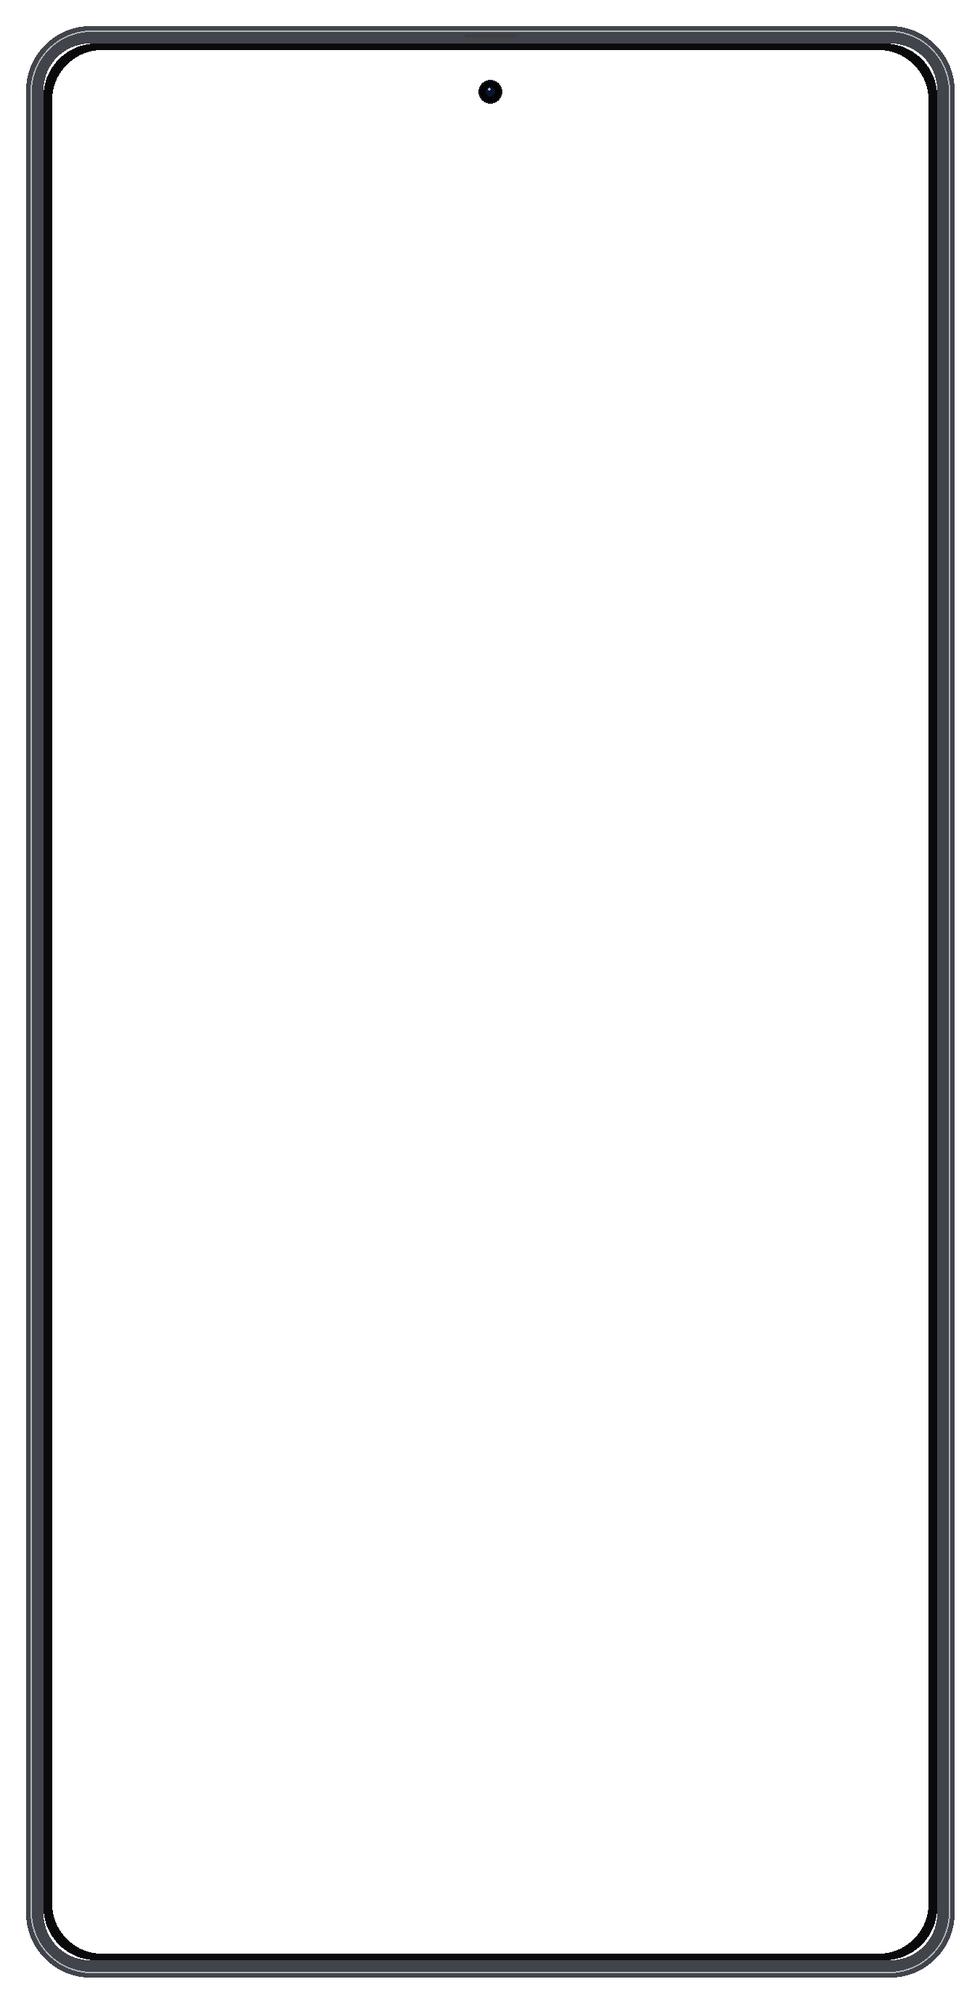
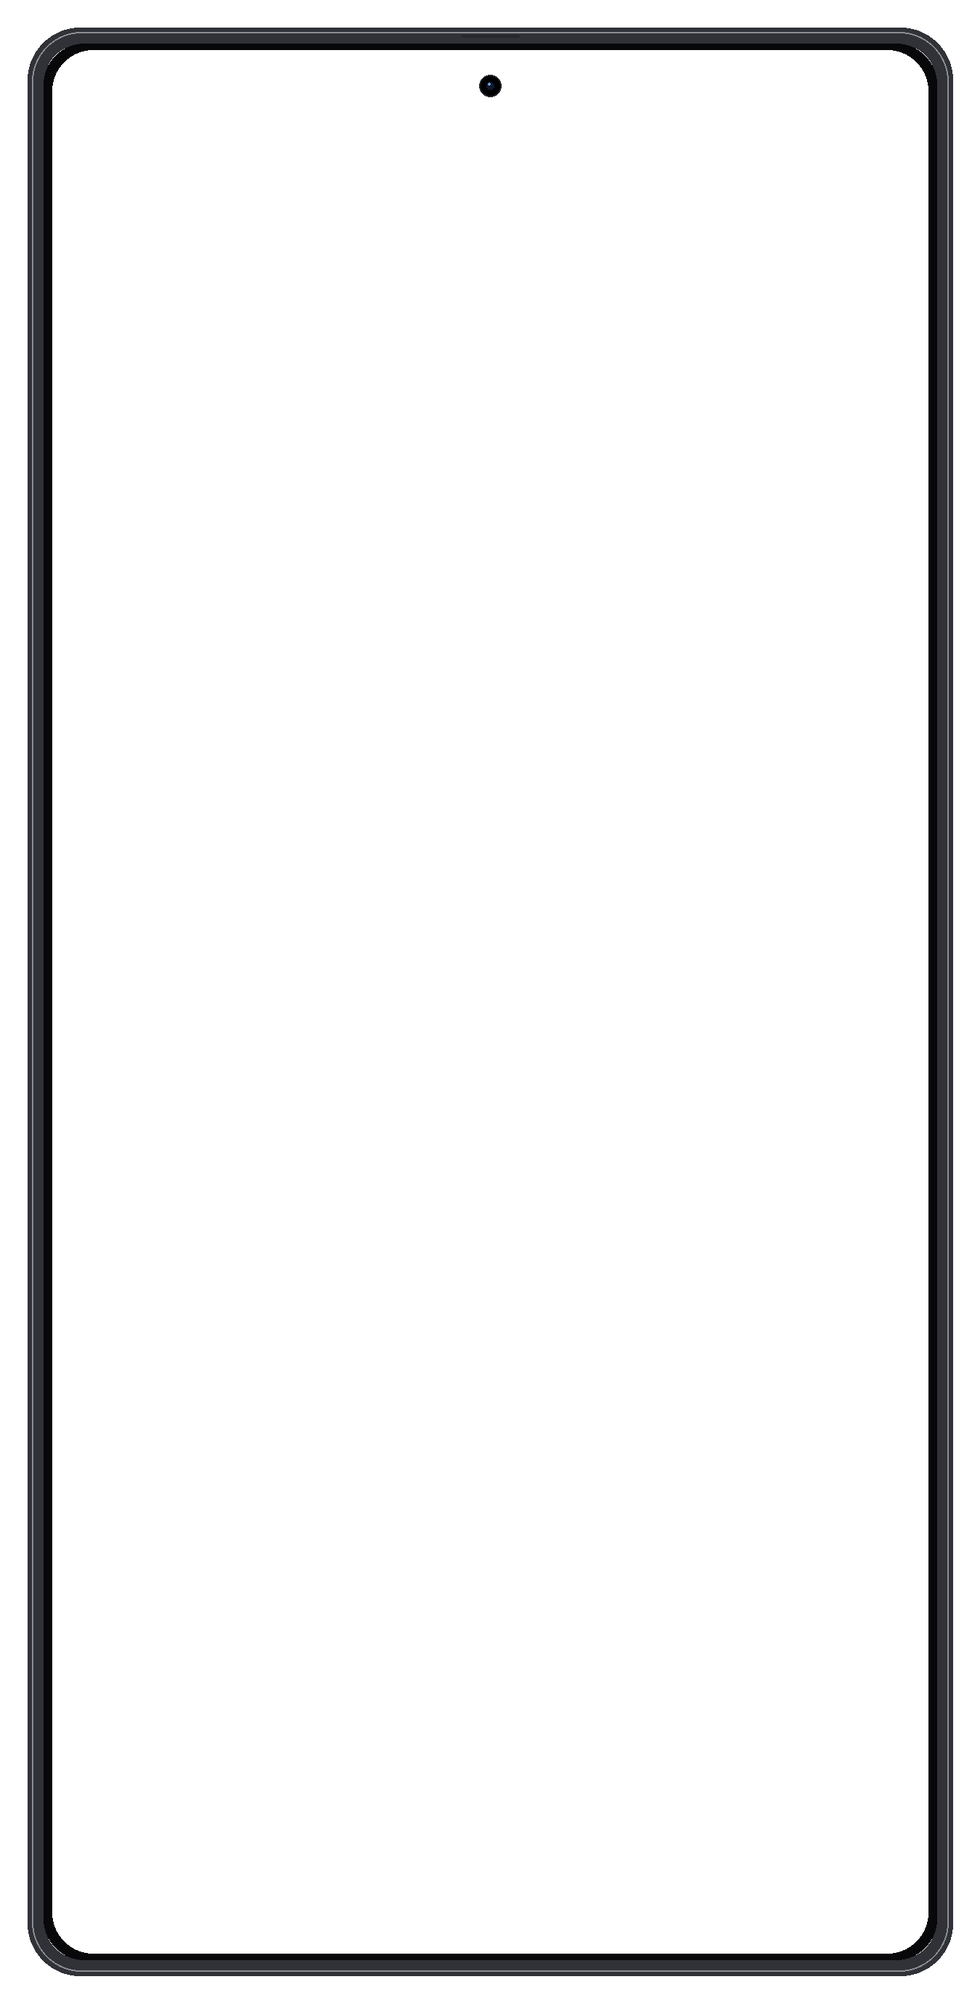
feat(routing): completely decouple platform screens, bezels and storage progress

diff --git a/src/main.ts b/src/main.ts
@@ -309,29 +309,37 @@ function animateRailPosition(from: number, to: number, offset = 0) {
   railMotion.onfinish = () => { if (railGeometryPending) requestAnimationFrame(measureRailGeometry); };
 }
 
-const phaseProgressKey = 'apple-bezel-tutorial-phase-progress-v1';
+function getProgressKey(platform: PlatformId = activePlatform) {
+  return `tutorial-progress-${platform}-v2`;
+}
 
 function phaseSteps() {
   return phases[currentPhase].steps;
 }
 
 function saveProgress() {
-  localStorage.setItem(phaseProgressKey, JSON.stringify({ phase: currentPhase, steps: phaseStepPositions, signoutCompleted }));
+  localStorage.setItem(getProgressKey(), JSON.stringify({ phase: currentPhase, steps: phaseStepPositions, signoutCompleted }));
 }
 
 function restoreProgress() {
   try {
-    const saved = JSON.parse(localStorage.getItem(phaseProgressKey) ?? 'null');
-    if (!saved || !Array.isArray(saved.steps)) return;
+    const saved = JSON.parse(localStorage.getItem(getProgressKey()) ?? 'null');
+    if (!saved || !Array.isArray(saved.steps)) {
+      phaseStepPositions = phases.map(() => 0);
+      currentPhase = 0;
+      currentStepInPhase = 0;
+      signoutCompleted = false;
+      return;
+    }
     phases.forEach((phase, index) => {
       const step = saved.steps[index];
       phaseStepPositions[index] = Number.isInteger(step) && step >= 0 && step < phase.steps.length ? step : 0;
     });
     signoutCompleted = saved.signoutCompleted === true;
     currentPhase = typeof saved.phase === 'number' && saved.phase >= 0 && saved.phase < phases.length && (saved.phase === 0 || signoutCompleted) ? (saved.phase as PhaseIndex) : 0;
-    currentStepInPhase = phaseStepPositions[currentPhase];
+    currentStepInPhase = phaseStepPositions[currentPhase] ?? 0;
   } catch {
-    localStorage.removeItem(phaseProgressKey);
+    localStorage.removeItem(getProgressKey());
   }
 }
 
@@ -608,68 +616,73 @@ function renderStep(index: number, animate = true, dragOffset = 0) {
     }
   }
 
-  if (currentPhase === 0) {
-    if (currentStepInPhase === 0) {
-      const prefix = document.createTextNode('打开你 iPhone 上的');
-      const settingsIcon = document.createElement('img');
-      settingsIcon.className = 'hud-inline-settings-icon';
-      settingsIcon.src = '/media/rail-settings-apple.png';
-      settingsIcon.alt = '设置';
-      settingsIcon.draggable = false;
-      stepBody.replaceChildren(prefix, settingsIcon);
-    } else if (currentStepInPhase === 1) {
-      stepBody.innerHTML = '进入设置页面后，轻点<span class="hud-note-avatar">顶部的头像</span>，<span class="hud-account-target">进入你的<img class="hud-inline-account-icon" src="/media/rail-action-apple.png" alt="" draggable="false"><span class="hud-note-account">“Apple 账户”</span></span>。';
-    } else if (currentStepInPhase === 2) {
-      stepBody.innerHTML = '在个人的 apple 账户页面，点击<span class="hud-media-target"><img class="hud-inline-media-icon" src="/media/rail-media-purchases-apple.png" alt="" draggable="false"><span class="hud-note-media">媒体与购买项目</span></span>选项。';
-    } else if (currentStepInPhase === 3) {
-      stepBody.innerHTML = '<span class="hud-note-signout">点击退出登录</span>，<span class="hud-note-warning">⚠严格保证</span>你的<span class="hud-note-consistency">实际操作与前面步骤一致</span>，并再次检查是从<span class="hud-source-target"><img class="hud-inline-source-icon" src="/media/rail-media-purchases-apple.png" alt="" draggable="false"><span class="hud-note-source">媒体与购买项目</span></span>进来的，确认后<span class="hud-note-signout">退出登录</span>。';
+  if (activePlatform === 'ios') {
+    if (currentPhase === 0) {
+      if (currentStepInPhase === 0) {
+        const prefix = document.createTextNode('打开你 iPhone 上的');
+        const settingsIcon = document.createElement('img');
+        settingsIcon.className = 'hud-inline-settings-icon';
+        settingsIcon.src = '/media/rail-settings-apple.png';
+        settingsIcon.alt = '设置';
+        settingsIcon.draggable = false;
+        stepBody.replaceChildren(prefix, settingsIcon);
+      } else if (currentStepInPhase === 1) {
+        stepBody.innerHTML = '进入设置页面后，轻点<span class="hud-note-avatar">顶部的头像</span>，<span class="hud-account-target">进入你的<img class="hud-inline-account-icon" src="/media/rail-action-apple.png" alt="" draggable="false"><span class="hud-note-account">“Apple 账户”</span></span>。';
+      } else if (currentStepInPhase === 2) {
+        stepBody.innerHTML = '在个人的 apple 账户页面，点击<span class="hud-media-target"><img class="hud-inline-media-icon" src="/media/rail-media-purchases-apple.png" alt="" draggable="false"><span class="hud-note-media">媒体与购买项目</span></span>选项。';
+      } else if (currentStepInPhase === 3) {
+        stepBody.innerHTML = '<span class="hud-note-signout">点击退出登录</span>，<span class="hud-note-warning">⚠严格保证</span>你的<span class="hud-note-consistency">实际操作与前面步骤一致</span>，并再次检查是从<span class="hud-source-target"><img class="hud-inline-source-icon" src="/media/rail-media-purchases-apple.png" alt="" draggable="false"><span class="hud-note-source">媒体与购买项目</span></span>进来的，确认后<span class="hud-note-signout">退出登录</span>。';
+      } else {
+        stepBody.innerHTML = '在弹出的提示中，点击<span class="hud-confirm-target"><img class="hud-inline-confirm-icon" src="/media/rail-signout-confirm-icons8.png" alt="" draggable="false"><span class="hud-note-confirm-signout">“退出登录”</span></span>。<span class="hud-confirm-optional"><span class="hud-note-if-missing">若未出现</span>“再次确认”提示，<span class="hud-note-skip-step">可跳过此步</span>。</span>';
+      }
+    } else if (currentPhase === 1) {
+      stepBody.innerHTML = '按网站引导继续操作。<span class="hud-return-reminder">做完之后，<span class="hud-highlight-amber">请务必回到这里</span>继续后续步骤。</span>';
+    } else if (currentPhase === 2) {
+      switch (currentStepInPhase) {
+        case 0:
+          stepBody.innerHTML = '点击右上角的<span class="hud-highlight-blue">➕号</span>';
+          break;
+        case 1:
+          stepBody.innerHTML = '根据图示完成 3 步之后点击右上角<span class="hud-highlight-blue">保存</span>';
+          break;
+        case 2:
+          stepBody.innerHTML = '打开顶部<span class="hud-highlight-circle-amber">总开关</span>';
+          break;
+        case 3:
+          stepBody.innerHTML = '点击右边按钮';
+          break;
+        case 4:
+          stepBody.innerHTML = '点击左边<span class="hud-highlight-circle-amber">“允许”</span>按钮';
+          break;
+        case 5:
+          stepBody.innerHTML = '复制好之后，去小火箭点击底部的<span class="hud-highlight-blue">“配置”</span>';
+          break;
+        case 6:
+          stepBody.innerHTML = '点击右上角<span class="hud-highlight-blue">加号</span>，会自动将复制的链接<span class="hud-highlight-circle-blue">粘贴至输入框</span>，确认有链接后点击第二步<span class="hud-highlight-amber">下载</span>';
+          break;
+        case 7:
+          stepBody.innerHTML = '轻点箭头指向的 <span class="hud-highlight-purple">shadowrocket.conf</span> 配置文件';
+          break;
+        case 8:
+          stepBody.innerHTML = '依次点击图示两步：点完<span class="hud-highlight-blue">“使用配置”</span>后，再次轻点 <span class="hud-highlight-purple">shadowrocket.conf</span>，然后点击<span class="hud-highlight-amber">“更新”</span>';
+          break;
+        case 9:
+          stepBody.innerHTML = '点击右下角的<span class="hud-highlight-blue">设置</span>，然后找到<span class="hud-highlight-circle-amber">订阅</span>，点击<span class="hud-highlight-amber">订阅</span>';
+          break;
+        case 10:
+          stepBody.innerHTML = '打开<span class="hud-highlight-circle-amber">两个开关</span>，复制 <span class="hud-highlight-purple">DNS 链接</span>并粘贴到 DNS 这一栏';
+          break;
+        case 11:
+          stepBody.innerHTML = '恭喜完成所有步骤，任何时候无需关闭开关，建议<span class="hud-highlight-badge-success">常开</span>，并<span class="hud-highlight-blue">不耗电</span>';
+          break;
+        default:
+          stepBody.textContent = step.body;
+      }
     } else {
-      stepBody.innerHTML = '在弹出的提示中，点击<span class="hud-confirm-target"><img class="hud-inline-confirm-icon" src="/media/rail-signout-confirm-icons8.png" alt="" draggable="false"><span class="hud-note-confirm-signout">“退出登录”</span></span>。<span class="hud-confirm-optional"><span class="hud-note-if-missing">若未出现</span>“再次确认”提示，<span class="hud-note-skip-step">可跳过此步</span>。</span>';
-    }
-  } else if (currentPhase === 1) {
-    stepBody.innerHTML = '按网站引导继续操作。<span class="hud-return-reminder">做完之后，<span class="hud-highlight-amber">请务必回到这里</span>继续后续步骤。</span>';
-  } else if (currentPhase === 2) {
-    switch (currentStepInPhase) {
-      case 0:
-        stepBody.innerHTML = '点击右上角的<span class="hud-highlight-blue">➕号</span>';
-        break;
-      case 1:
-        stepBody.innerHTML = '根据图示完成 3 步之后点击右上角<span class="hud-highlight-blue">保存</span>';
-        break;
-      case 2:
-        stepBody.innerHTML = '打开顶部<span class="hud-highlight-circle-amber">总开关</span>';
-        break;
-      case 3:
-        stepBody.innerHTML = '点击右边按钮';
-        break;
-      case 4:
-        stepBody.innerHTML = '点击左边<span class="hud-highlight-circle-amber">“允许”</span>按钮';
-        break;
-      case 5:
-        stepBody.innerHTML = '复制好之后，去小火箭点击底部的<span class="hud-highlight-blue">“配置”</span>';
-        break;
-      case 6:
-        stepBody.innerHTML = '点击右上角<span class="hud-highlight-blue">加号</span>，会自动将复制的链接<span class="hud-highlight-circle-blue">粘贴至输入框</span>，确认有链接后点击第二步<span class="hud-highlight-amber">下载</span>';
-        break;
-      case 7:
-        stepBody.innerHTML = '轻点箭头指向的 <span class="hud-highlight-purple">shadowrocket.conf</span> 配置文件';
-        break;
-      case 8:
-        stepBody.innerHTML = '依次点击图示两步：点完<span class="hud-highlight-blue">“使用配置”</span>后，再次轻点 <span class="hud-highlight-purple">shadowrocket.conf</span>，然后点击<span class="hud-highlight-amber">“更新”</span>';
-        break;
-      case 9:
-        stepBody.innerHTML = '点击右下角的<span class="hud-highlight-blue">设置</span>，然后找到<span class="hud-highlight-circle-amber">订阅</span>，点击<span class="hud-highlight-amber">订阅</span>';
-        break;
-      case 10:
-        stepBody.innerHTML = '打开<span class="hud-highlight-circle-amber">两个开关</span>，复制 <span class="hud-highlight-purple">DNS 链接</span>并粘贴到 DNS 这一栏';
-        break;
-      case 11:
-        stepBody.innerHTML = '恭喜完成所有步骤，任何时候无需关闭开关，建议<span class="hud-highlight-badge-success">常开</span>，并<span class="hud-highlight-blue">不耗电</span>';
-        break;
-      default:
-        stepBody.textContent = step.body;
+      stepBody.textContent = step.body;
     }
   } else {
+    // Android 或 HarmonyOS 渲染各自独立定义的步骤文案
     stepBody.textContent = step.body;
   }
   const nextNode = screenNodes[step.screen];
@@ -1172,6 +1185,26 @@ function parseAndApplyUrlTarget() {
   }
 }
 
+function syncBezel() {
+  const bezelSource = document.querySelector<HTMLSourceElement>('.device picture source');
+  const bezelImg = document.querySelector<HTMLImageElement>('.official-bezel');
+  if (bezelSource && bezelImg) {
+    if (activePlatform === 'android') {
+      bezelSource.srcset = '/media/bezel/samsung-s24-portrait.webp';
+      bezelImg.src = '/media/bezel/samsung-s24-portrait.png';
+      bezelImg.alt = 'Samsung Galaxy S24 正面机框';
+    } else if (activePlatform === 'harmony') {
+      bezelSource.srcset = '/media/bezel/huawei-pura70-portrait.webp';
+      bezelImg.src = '/media/bezel/huawei-pura70-portrait.png';
+      bezelImg.alt = 'Huawei Pura 70 正面机框';
+    } else {
+      bezelSource.srcset = '/media/bezel/iphone-17-pro-cosmic-orange-portrait.webp';
+      bezelImg.src = '/media/bezel/iphone-17-pro-cosmic-orange-portrait.png';
+      bezelImg.alt = 'Apple 官方星宇橙色 iPhone 17 Pro 正面机框';
+    }
+  }
+}
+
 function syncRoute(moveFocus = false) {
   const hashStr = location.hash || '';
   const isIos = hashStr.startsWith('#ios');
@@ -1184,44 +1217,27 @@ function syncRoute(moveFocus = false) {
   }
 
   const newPlatform: PlatformId = isAndroid ? 'android' : (isHarmony ? 'harmony' : 'ios');
-  if (showTutorial && newPlatform !== activePlatform) {
+  if (newPlatform !== activePlatform) {
     activePlatform = newPlatform;
     phases = getPlatformPhases(activePlatform);
-    phaseStepPositions = phases.map(() => 0);
-    currentPhase = 0;
-    currentStepInPhase = 0;
-    
+    restoreProgress();
+  }
+  syncBezel();
+
+  if (showTutorial) {
     // 更新顶部阶段导航 tabs
     const tabsContainer = document.querySelector<HTMLElement>('.top-phase-tabs');
     if (tabsContainer) {
       tabsContainer.innerHTML = phases.map((p, idx) => `
         ${idx > 0 ? '<span class="top-phase-divider" aria-hidden="true">/</span>' : ''}
-        <button type="button" class="top-phase-tab ${idx === 0 ? 'is-active' : ''}" data-phase-tab="${idx}" aria-label="阶段${idx + 1}：${p.title}">
+        <button type="button" class="top-phase-tab ${idx === currentPhase ? 'is-active' : ''}" data-phase-tab="${idx}" aria-label="阶段${idx + 1}：${p.title}">
           <span class="top-phase-badge">0${idx + 1}</span>
           <span class="top-phase-title">${p.title}</span>
         </button>
       `).join('');
     }
-
-    // 更新机模
-    const bezelSource = document.querySelector<HTMLSourceElement>('.device picture source');
-    const bezelImg = document.querySelector<HTMLImageElement>('.official-bezel');
-    if (bezelSource && bezelImg) {
-      if (activePlatform === 'android') {
-        bezelSource.srcset = '/media/bezel/samsung-s24-portrait.webp';
-        bezelImg.src = '/media/bezel/samsung-s24-portrait.png';
-        bezelImg.alt = 'Samsung Galaxy S24 正面机框';
-      } else if (activePlatform === 'harmony') {
-        bezelSource.srcset = '/media/bezel/huawei-pura70-portrait.webp';
-        bezelImg.src = '/media/bezel/huawei-pura70-portrait.png';
-        bezelImg.alt = 'Huawei Pura 70 正面机框';
-      } else {
-        bezelSource.srcset = '/media/bezel/iphone-17-pro-cosmic-orange-portrait.webp';
-        bezelImg.src = '/media/bezel/iphone-17-pro-cosmic-orange-portrait.png';
-        bezelImg.alt = 'Apple 官方星宇橙色 iPhone 17 Pro 正面机框';
-      }
-    }
     syncRailTrack();
+    renderStep(currentStepInPhase, false);
   }
 
   // 深度解析外部 URL 参数导航（兼顾 location.search 与 location.hash 中的参数）

diff --git a/src/tutorial-content.ts b/src/tutorial-content.ts
@@ -5,7 +5,7 @@ export type TutorialStep = {
   body: string;
   proof: string;
   hudProof: string;
-  screen: 'settings' | 'action' | 'translate' | 'complete' | 'confirmSignout' | 'appleidService' | 'shadowrocketImport' | 'shadowrocketAddNode' | 'shadowrocketMainSwitch' | 'shadowrocketInstallProfile' | 'shadowrocketAllowVpn' | 'shadowrocketConfigTab' | 'shadowrocketDownloadConf' | 'shadowrocketSelectConf' | 'shadowrocketUseAndUpdateConf' | 'shadowrocketUpdateSubscription' | 'shadowrocketSubscriptionDetails' | 'shadowrocketComplete';
+  screen: 'settings' | 'action' | 'translate' | 'complete' | 'confirmSignout' | 'appleidService' | 'shadowrocketImport' | 'shadowrocketAddNode' | 'shadowrocketMainSwitch' | 'shadowrocketInstallProfile' | 'shadowrocketAllowVpn' | 'shadowrocketConfigTab' | 'shadowrocketDownloadConf' | 'shadowrocketSelectConf' | 'shadowrocketUseAndUpdateConf' | 'shadowrocketUpdateSubscription' | 'shadowrocketSubscriptionDetails' | 'shadowrocketComplete' | 'platformReadyAndroid' | 'platformReadyHarmony';
   icon: string;
 };
 
@@ -24,6 +24,8 @@ const icons = {
   confirmSignout: '<img class="rail-icon-image" src="/media/rail-signout-confirm-icons8.png" alt="确认退出" draggable="false">',
   appleLogo: '<img class="rail-icon-image" src="/media/rail-apple-logo.svg" alt="Apple服务" draggable="false">',
   shadowrocket: '<img class="rail-icon-image rail-icon-squircle" src="/media/rail-shadowrocket-icon.png" alt="Shadowrocket" draggable="false">',
+  androidApp: '<svg class="rail-icon-svg" viewBox="0 0 24 24" fill="none" stroke="currentColor" stroke-width="2" stroke-linecap="round" stroke-linejoin="round" style="width:20px;height:20px;color:#38bdf8;"><rect x="5" y="2" width="14" height="20" rx="3"/><line x1="12" y1="18" x2="12.01" y2="18"/></svg>',
+  harmonyApp: '<svg class="rail-icon-svg" viewBox="0 0 24 24" fill="none" stroke="currentColor" stroke-width="2" stroke-linecap="round" stroke-linejoin="round" style="width:20px;height:20px;color:#f43f5e;"><circle cx="12" cy="12" r="9"/><circle cx="12" cy="12" r="3"/></svg>',
 };
 
 // 第一阶段：退出旧账户（严格 5 步闭环）
@@ -182,13 +184,13 @@ export const androidPhases: TutorialPhase[] = [
   { id: 'phase-android-setup', name: '01 客户端配置', title: '客户端配置', steps: [
     {
       id: 'android-install',
-      label: '下载安装',
-      title: '下载并安装客户端',
-      body: '下载安装 Android 客户端后打开，准备导入订阅链接',
+      label: '准备就绪',
+      title: '准备配置 Android 教程',
+      body: '请提供 Android 客户端教程的第一步操作与截图',
       proof: '',
       hudProof: '',
-      screen: 'settings',
-      icon: icons.railSettings
+      screen: 'platformReadyAndroid',
+      icon: icons.androidApp
     }
   ]}
 ];
@@ -197,13 +199,13 @@ export const harmonyPhases: TutorialPhase[] = [
   { id: 'phase-harmony-setup', name: '01 鸿蒙客户端配置', title: '鸿蒙客户端配置', steps: [
     {
       id: 'harmony-install',
-      label: '下载安装',
-      title: '下载并安装鸿蒙客户端',
-      body: '下载安装 HarmonyOS 客户端后打开，准备导入配置',
+      label: '准备就绪',
+      title: '准备配置鸿蒙教程',
+      body: '请提供鸿蒙客户端教程的第一步操作与截图',
       proof: '',
       hudProof: '',
-      screen: 'settings',
-      icon: icons.railSettings
+      screen: 'platformReadyHarmony',
+      icon: icons.harmonyApp
     }
   ]}
 ];
@@ -286,9 +288,25 @@ const screenTemplates: Record<TutorialStep['screen'], () => string> = {
       <img class="shadowrocket-subscription-details-screen-image" src="/media/screens/shadowrocket-subscription-details-user.jpg" alt="" draggable="false">
     </div>`,
   shadowrocketComplete: () => `
-    <div class="phone-ui shadowrocket-complete-ui" data-screen-state="shadowrocketComplete" aria-label="Shadowrocket 完结撒花界面">
+    <div class="phone-ui shadowrocket-complete-ui" data-screen-state="shadowrocketComplete" aria-label="Shadowrocket 全部配置完成示意">
       <img class="shadowrocket-complete-screen-image" src="/media/screens/shadowrocket-complete-user.jpg" alt="" draggable="false">
     </div>`,
+  platformReadyAndroid: () => `
+    <div class="phone-ui android-ready-ui" data-screen-state="platformReadyAndroid" style="display:flex;flex-direction:column;align-items:center;justify-content:center;height:100%;background:#090a0f;color:#f0f3f6;padding:24px;text-align:center;">
+      <div style="width:64px;height:64px;border-radius:18px;background:rgba(56,189,248,0.12);border:1px solid rgba(56,189,248,0.3);display:flex;align-items:center;justify-content:center;margin-bottom:16px;">
+        <svg viewBox="0 0 24 24" width="32" height="32" fill="none" stroke="#38bdf8" stroke-width="2"><path d="M10 8-2-3m14 3 2-3M8 14h16v10.5a2.5 2.5 0 0 1-2.5 2.5h-11A2.5 2.5 0 0 1 8 24.5V14Z"/><path d="M8 14v-1a8 8 0 0 1 16 0v1M12.5 11h.01M19.5 11h.01M4.5 15v8M27.5 15v8"/></svg>
+      </div>
+      <h3 style="font-size:18px;font-weight:700;margin:0 0 8px 0;color:#ffffff;">Android 教程已就绪</h3>
+      <p style="font-size:13px;line-height:1.5;color:rgba(255,255,255,0.65);margin:0;">请提供 Android 客户端教程的第一步操作内容与截图</p>
+    </div>`,
+  platformReadyHarmony: () => `
+    <div class="phone-ui harmony-ready-ui" data-screen-state="platformReadyHarmony" style="display:flex;flex-direction:column;align-items:center;justify-content:center;height:100%;background:#090a0f;color:#f0f3f6;padding:24px;text-align:center;">
+      <div style="width:64px;height:64px;border-radius:18px;background:rgba(244,63,94,0.12);border:1px solid rgba(244,63,94,0.3);display:flex;align-items:center;justify-content:center;margin-bottom:16px;">
+        <svg viewBox="0 0 24 24" width="32" height="32" fill="none" stroke="#f43f5e" stroke-width="2"><circle cx="12" cy="12" r="9"/><circle cx="12" cy="12" r="3"/></svg>
+      </div>
+      <h3 style="font-size:18px;font-weight:700;margin:0 0 8px 0;color:#ffffff;">HarmonyOS 教程已就绪</h3>
+      <p style="font-size:13px;line-height:1.5;color:rgba(255,255,255,0.65);margin:0;">请提供鸿蒙客户端教程的第一步操作内容与截图</p>
+    </div>`
 };
 
 const screenNodes = Object.fromEntries(Object.entries(screenTemplates).map(([key, render]) => {
